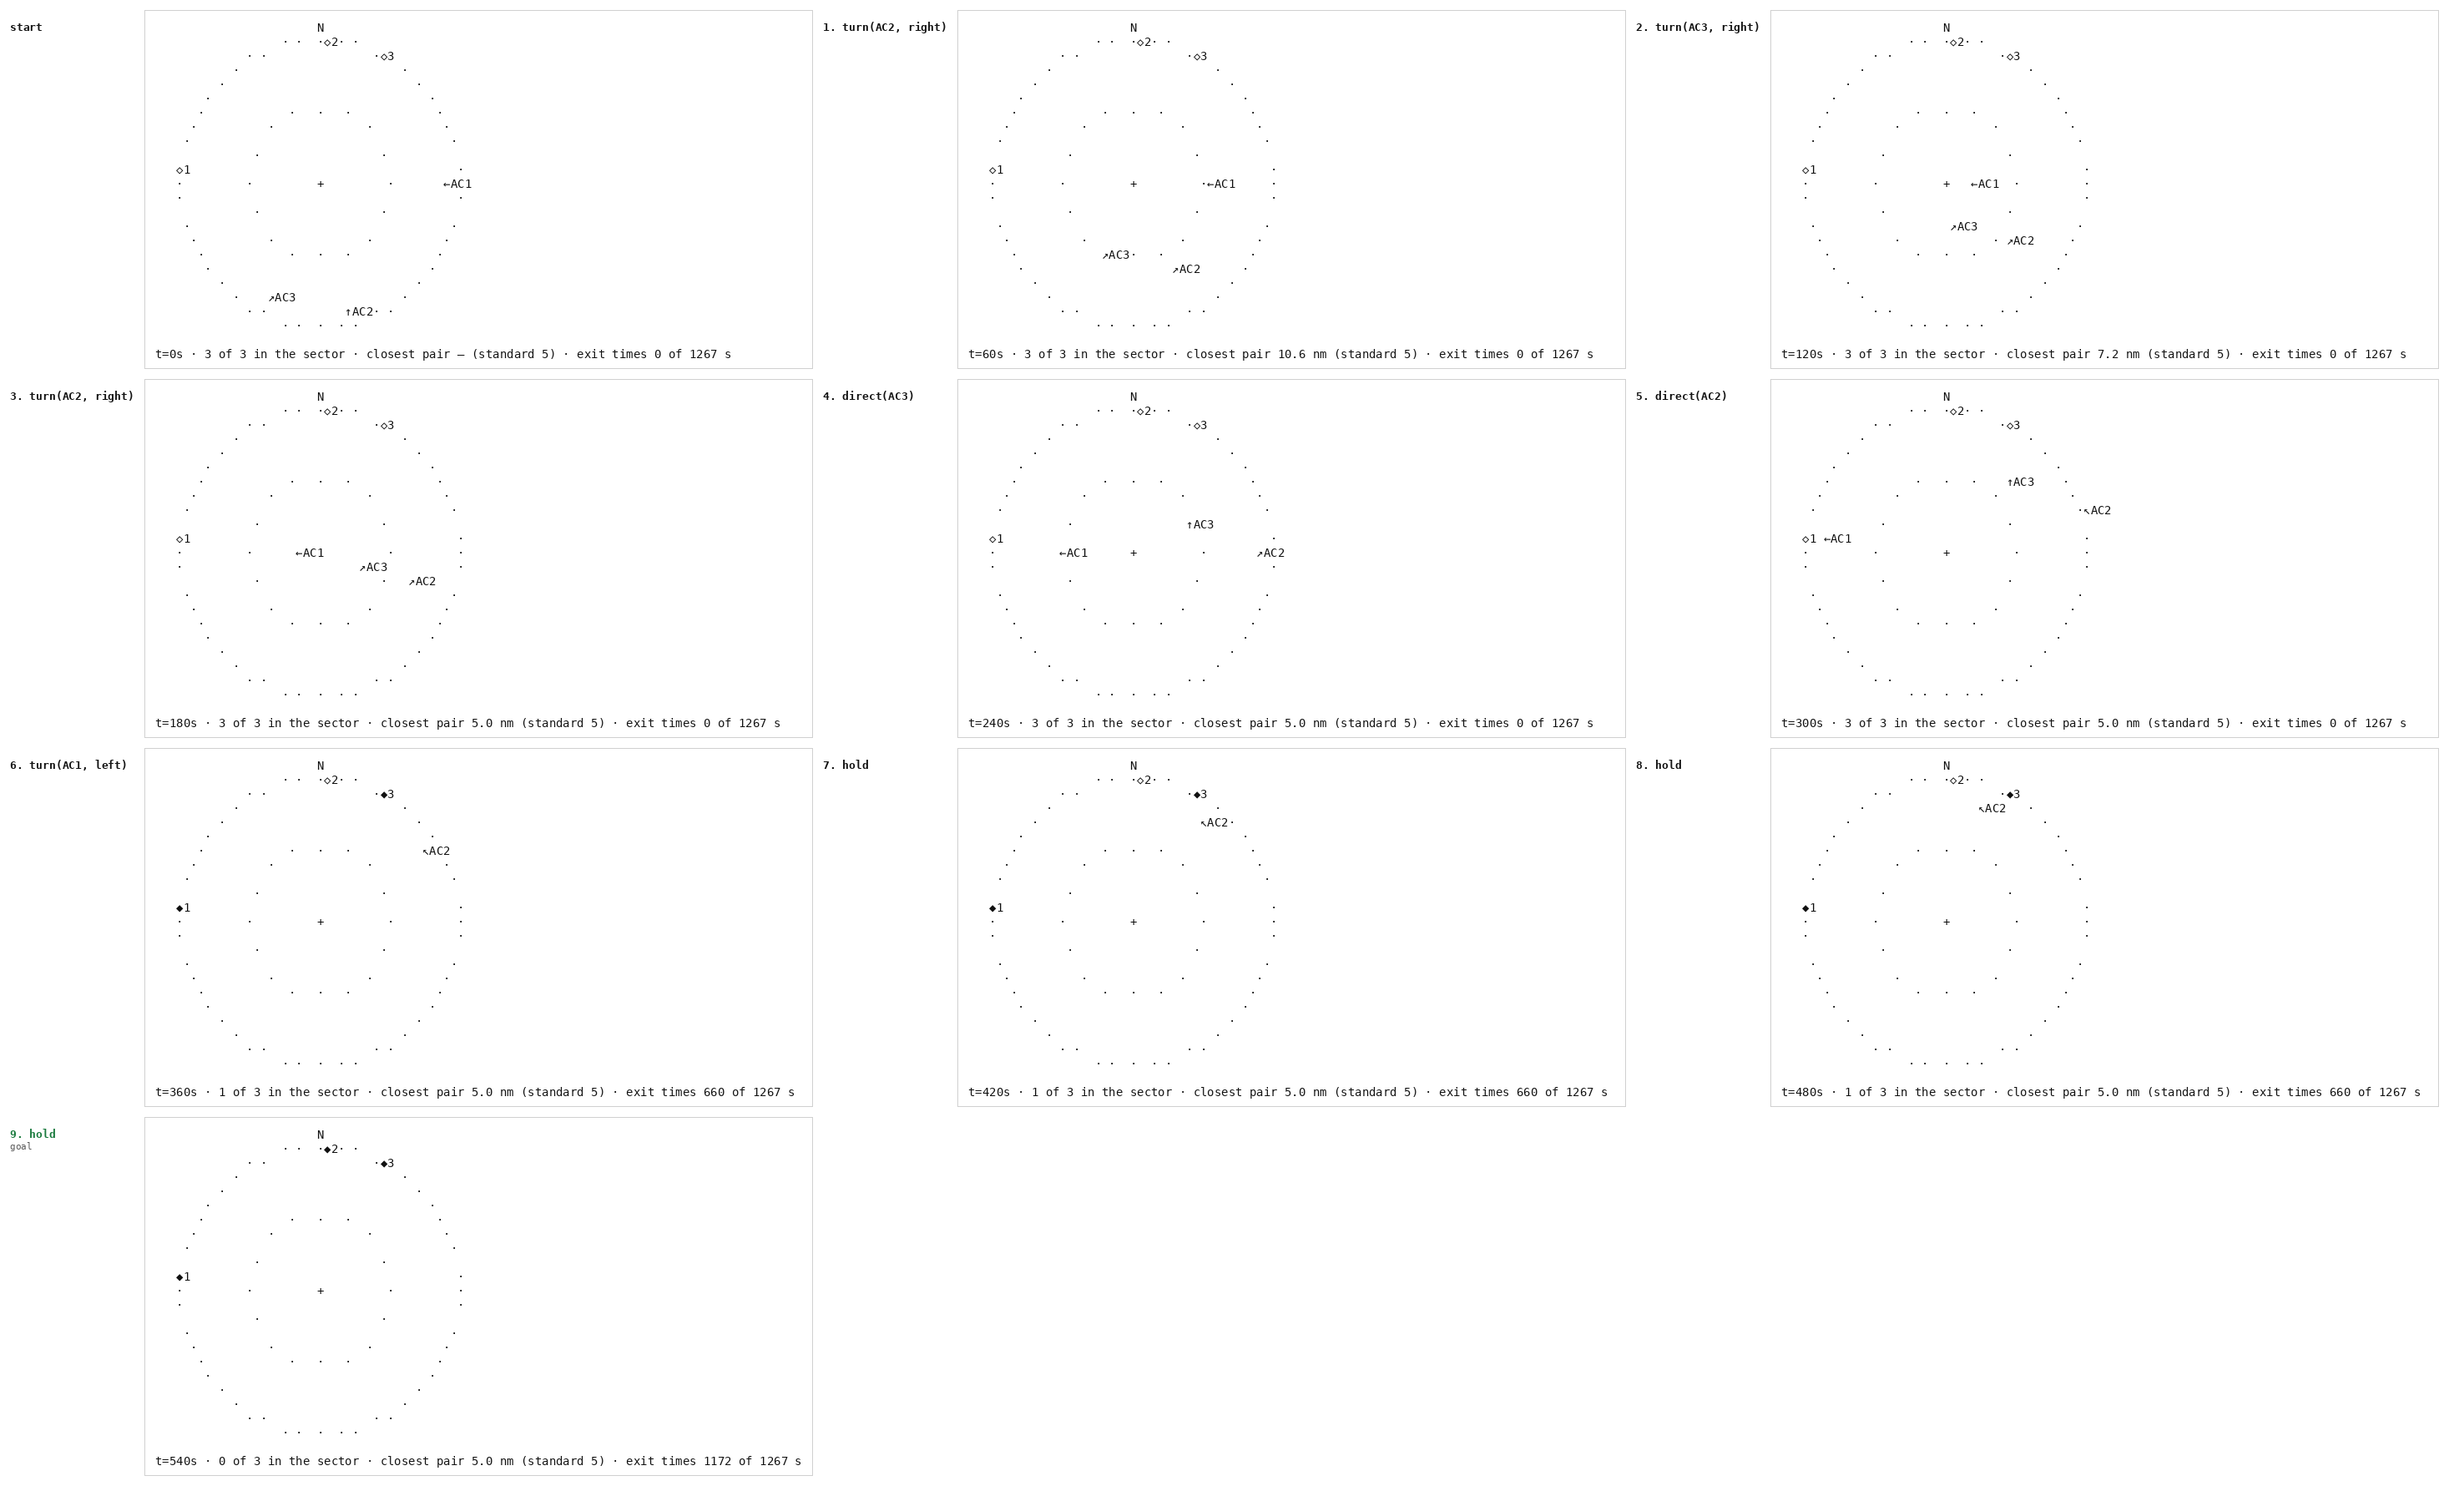
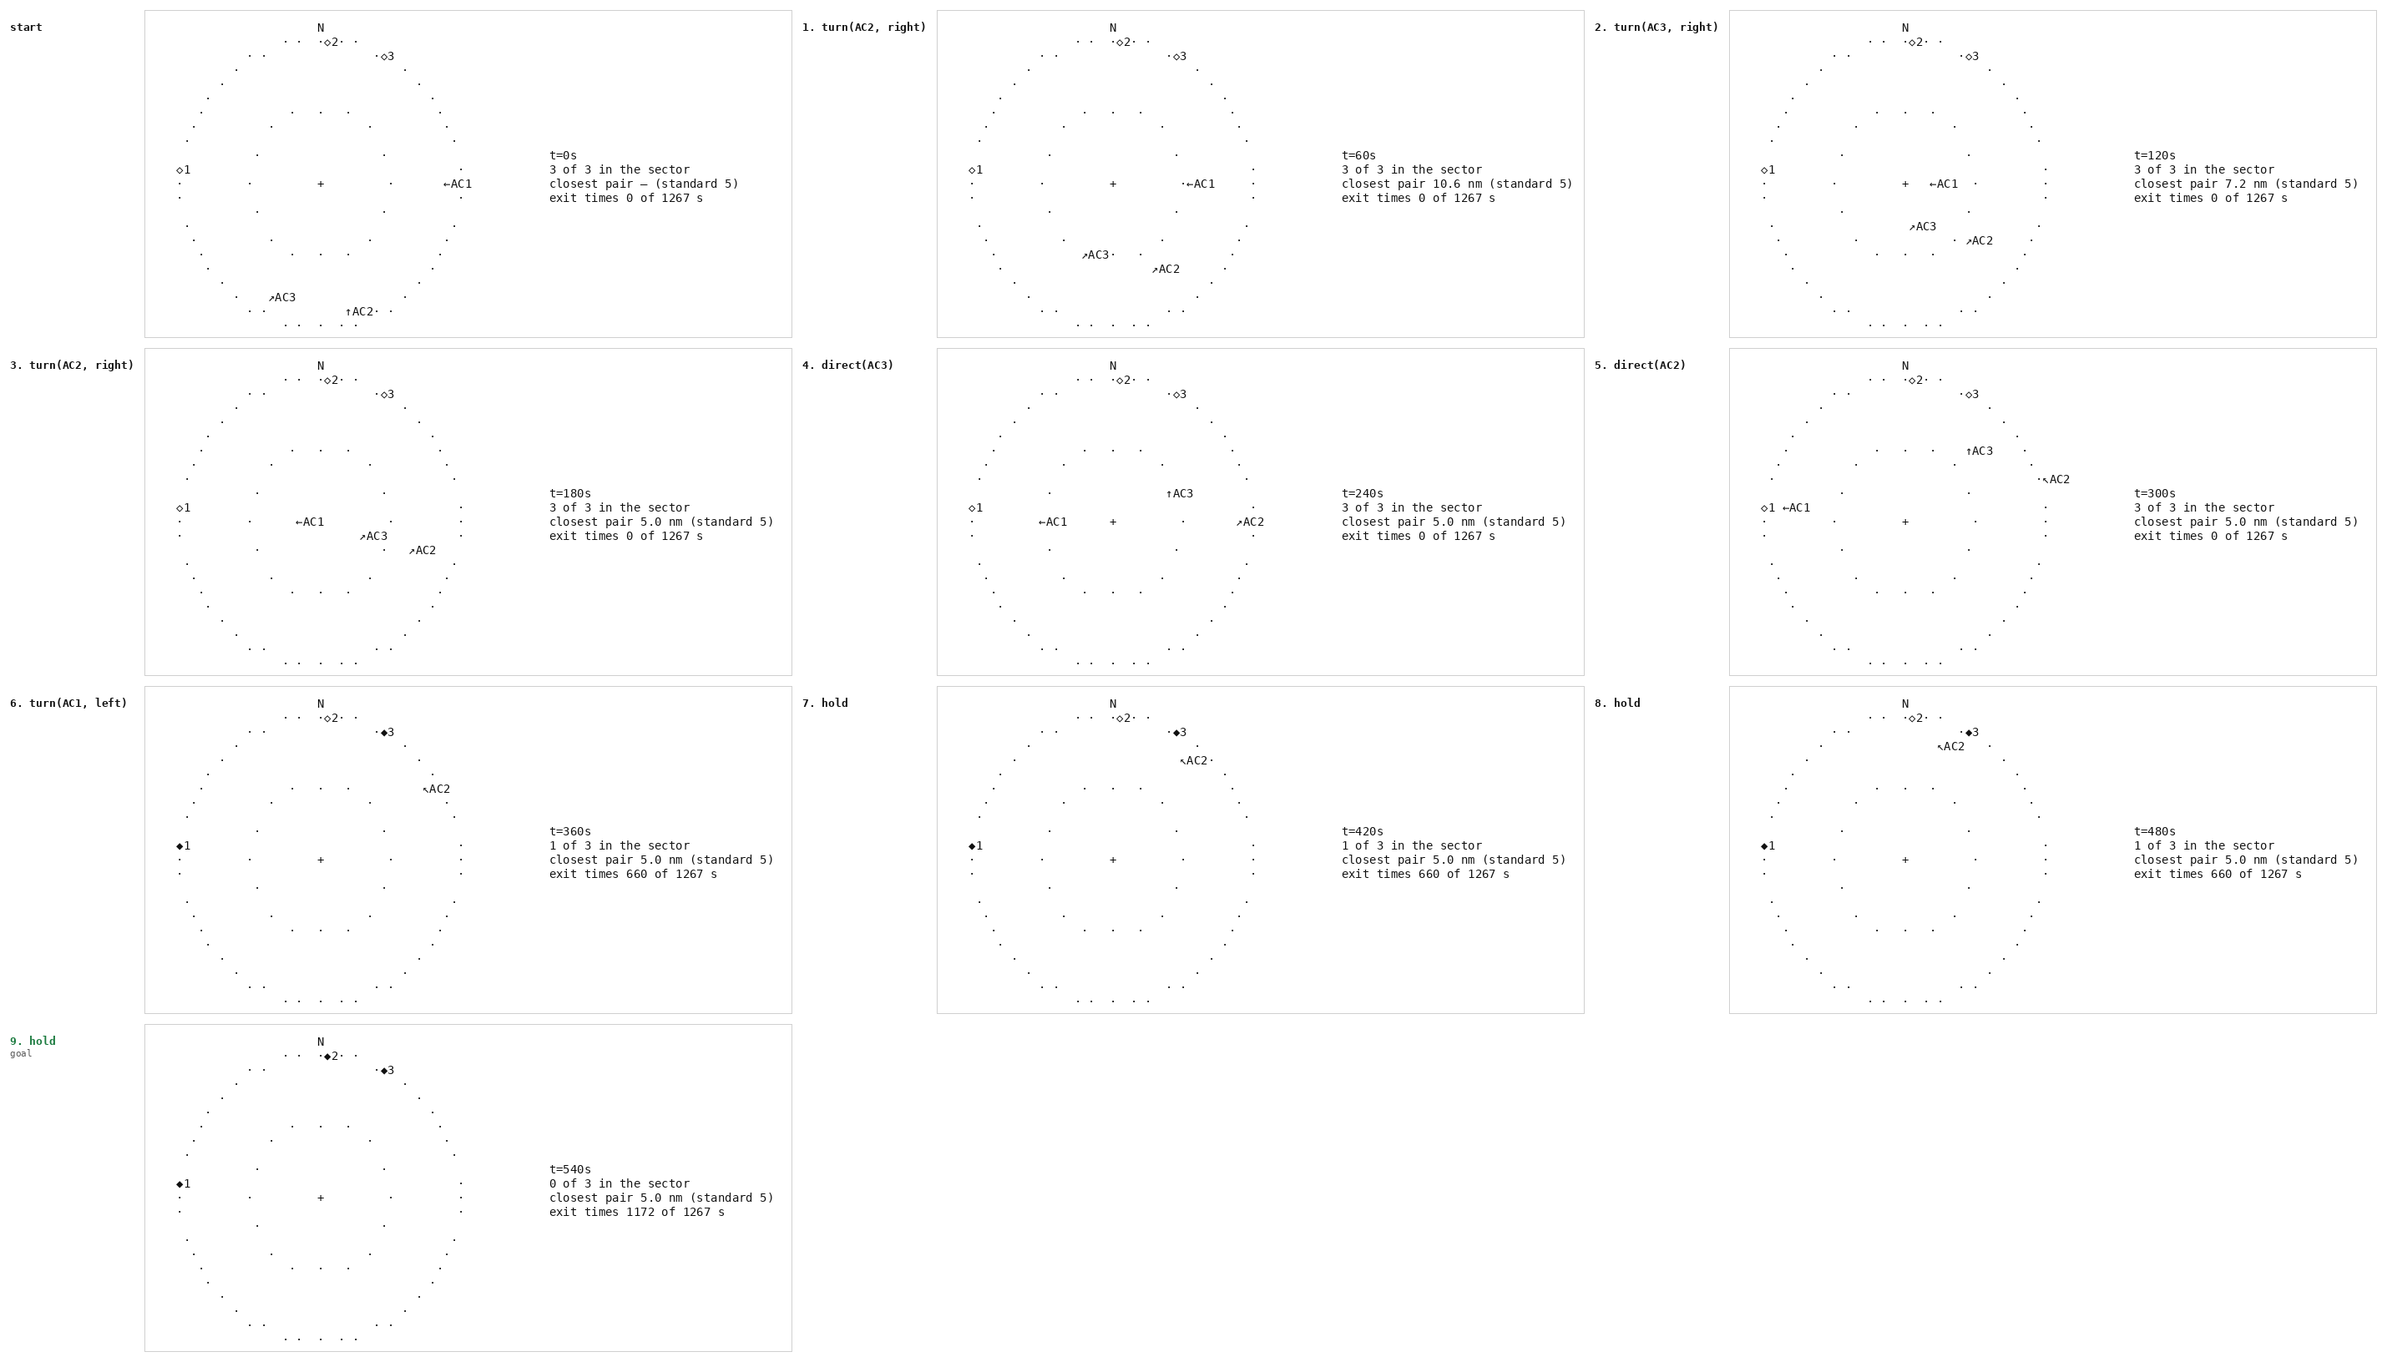
Set the airspace's figures beside the radar scope, one to a line
Claude-Session: https://claude.ai/code/session_01CbUM6vVu3Q3wBSzyXUJpxb

diff --git a/planiverse/environments/operational/airspace/environment.py b/planiverse/environments/operational/airspace/environment.py
@@ -33,7 +33,7 @@ import math
 
 from planiverse.environments.base import Environment
 from planiverse.environments.generation import draw_until, rng
-from planiverse.rendering.text import Canvas
+from planiverse.rendering.text import Canvas, side_by_side
 
 #: Seconds of flying per decision, the turn an instruction makes, and the separation standard.
 DECISION, TURN = 60, 30
@@ -176,7 +176,8 @@ class AirspaceState:
         """A radar scope: the sector's ring at the exits' range and a ring at half of it,
         each exit as ◇ and its aircraft's number (◆ once
         it is out), each aircraft as an arrow along its heading with its callsign beside it,
-        then a status line."""
+        and the time, the aircraft in the sector, the closest pair and the exit times in a
+        column beside the scope."""
         reach = SCOPE_NM
         cx, cy = reach * SCOPE_COLUMNS + 1, reach * SCOPE_ROWS
         canvas = Canvas(int(2 * cx) + 6, int(2 * cy) + 1)
@@ -205,11 +206,15 @@ class AirspaceState:
             x, y = spot(lat, lon)
             canvas.write(x, y, ARROWS[int(round(heading / 45)) % 8] + name)
         closest = f"{self.closest:.1f} nm" if self.closest < 99 else "–"
-        status = (f"t={self.time:.0f}s · {len(self.flying)} of {len(self.aircraft)} in the sector · "
-                  f"closest pair {closest} (standard {SEPARATION_NM:g})"
-                  + (", separation lost" if self.lost else "")
-                  + f" · exit times {self.exit_sum} of {self.target} s")
-        return str(canvas) + "\n\n" + status
+        status = [f"t={self.time:.0f}s",
+                  f"{len(self.flying)} of {len(self.aircraft)} in the sector",
+                  f"closest pair {closest} (standard {SEPARATION_NM:g})",
+                  "separation lost" if self.lost else "",
+                  f"exit times {self.exit_sum} of {self.target} s"]
+        status = [line for line in status if line]
+        scope = [line.ljust(canvas.width) for line in str(canvas).split("\n")]
+        top = (len(scope) - len(status)) // 2
+        return side_by_side([scope, [""] * top + status], gap=4)
 
     def __repr__(self):
         return f"<AirspaceState(t={self.time:.0f}, flying={len(self.flying)}, closest={self.closest:.1f})>"

diff --git a/docs/environments/airspace.md b/docs/environments/airspace.md
@@ -145,9 +145,9 @@ which turns the two aircraft converging from the south right, puts each back on 
 Each frame is the state's picture, a radar scope with north at the top: the ring the exits lie
 on, twenty nautical miles out, and a ring at half that range round the sector's centre. Each
 aircraft is an arrow along its heading, to the nearest forty-five degrees, with its callsign
-beside it, and each exit is marked with its aircraft's number. A status line follows with the
-time, the aircraft still in the sector, the closest any pair has come against the five-mile
-standard, and the sum of exit times of the target.
+beside it, and each exit is marked with its aircraft's number. Beside the scope, one to a line,
+are the time, the aircraft still in the sector, the closest any pair has come against the
+five-mile standard, and the sum of exit times against the target.
 
 | Mark | Meaning |
 |---|---|
@@ -169,7 +169,7 @@ from planiverse.planners.width import BFWS
 env = AirspaceEnv()
 env.set_index(0)
 state, info = env.reset()          # info: sector, aircraft, horizon, target, generated
-print(state)                       # the radar scope; last line t=0s · 3 of 3 in the sector · ...
+print(state)                       # the radar scope, the time and the sector's figures beside it
 
 result = BFWS(width=1, progress=measures.airspace).solve(env)
 trace = env.simulate(result.plan)
